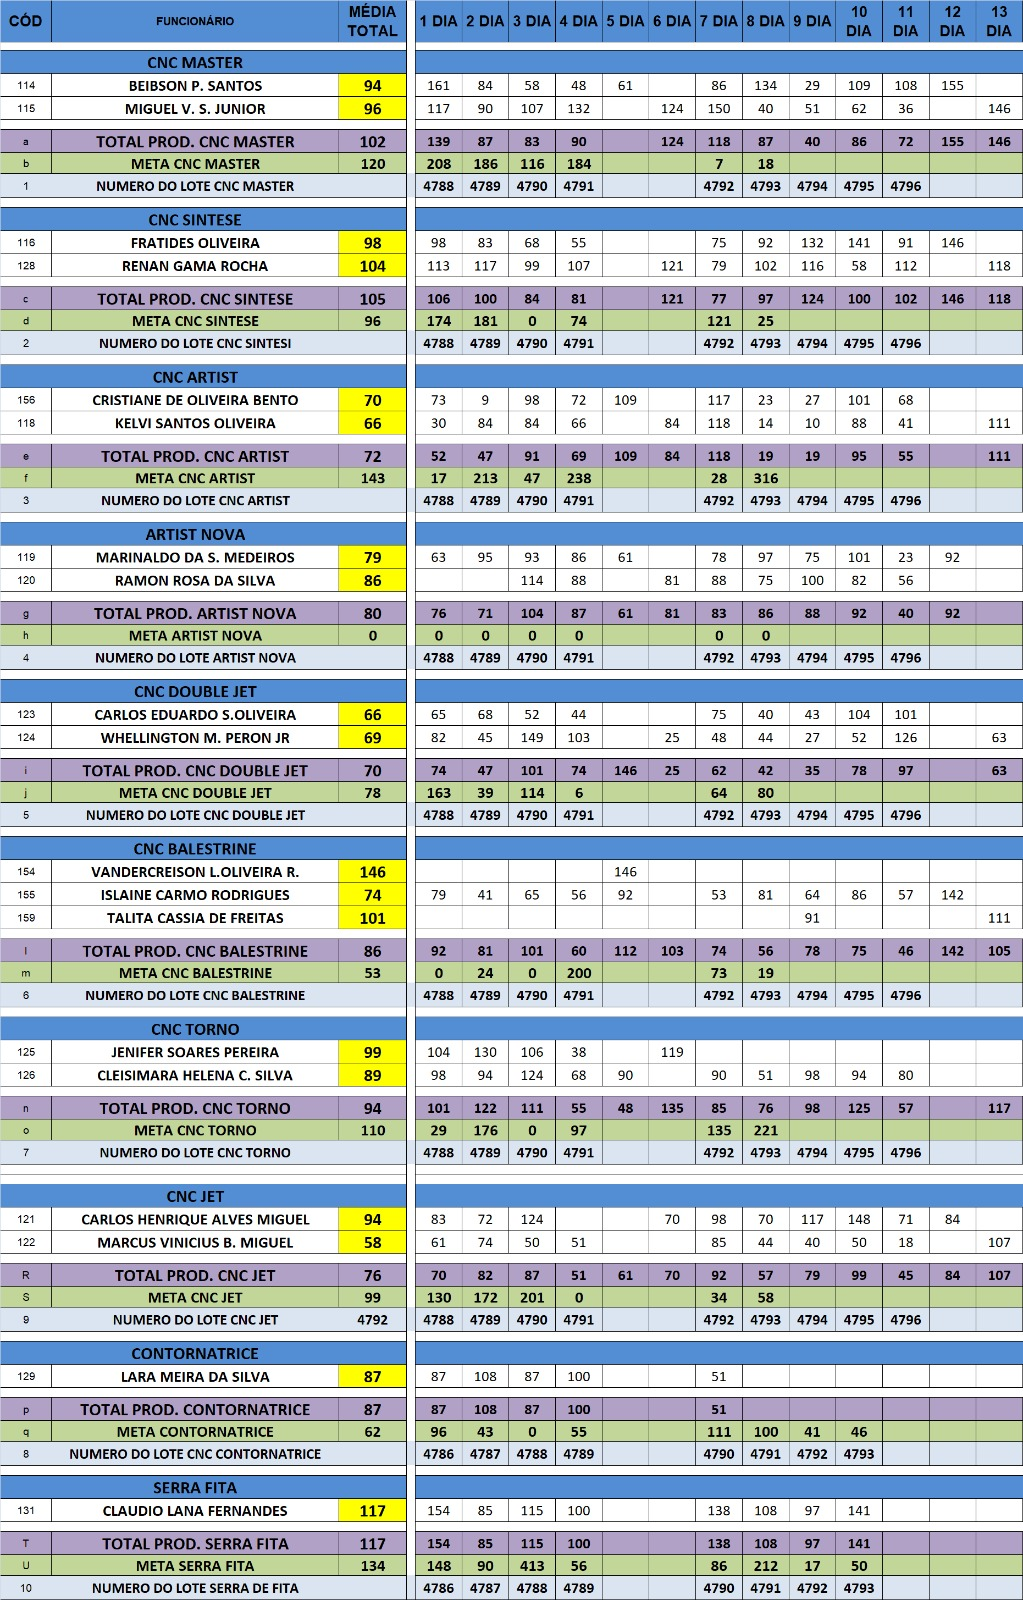
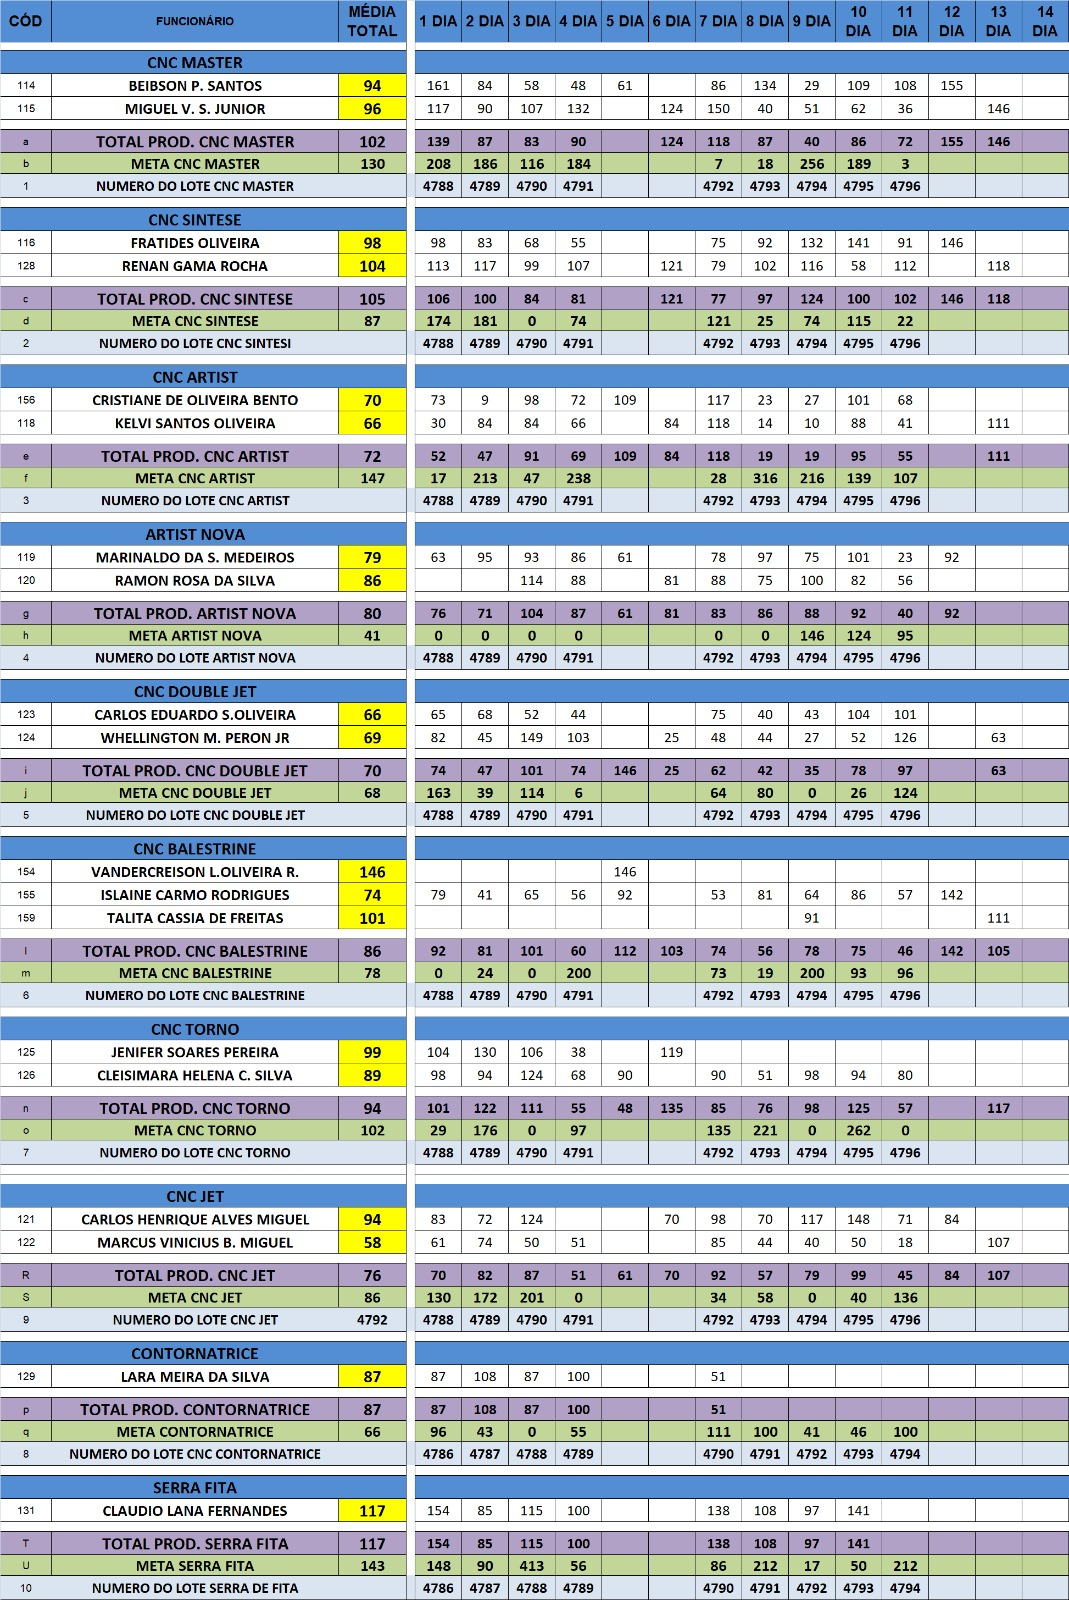
,

diff --git a/back__incial.js b/back__incial.js
@@ -1140,7 +1140,7 @@ const unidades = {
             { data: "08/04/2025", captura: ["capturas/Unidade 2/Usinagem/2025/Abril/Mont. Us/08.png", "capturas/Unidade 2/Usinagem/2025/Abril/Rolinho/08.png", "capturas/Unidade 2/Usinagem/2025/Abril/Roquite/08.png", "capturas/Unidade 2/Usinagem/2025/Abril/MM/08.png", "capturas/Unidade 2/Usinagem/2025/Abril/Usinagem/08.png"] },
             { data: "09/04/2025", captura: ["capturas/Unidade 2/Usinagem/2025/Abril/Mont. Us/09.png", "capturas/Unidade 2/Usinagem/2025/Abril/Rolinho/09.png", "capturas/Unidade 2/Usinagem/2025/Abril/Roquite/09.png", "capturas/Unidade 2/Usinagem/2025/Abril/MM/09.png", "capturas/Unidade 2/Usinagem/2025/Abril/Usinagem/09.png"] },
             { data: "10/04/2025", captura: ["capturas/Unidade 2/Usinagem/2025/Abril/Mont. Us/10.png", "capturas/Unidade 2/Usinagem/2025/Abril/Rolinho/10.png", "capturas/Unidade 2/Usinagem/2025/Abril/Roquite/10.png", "capturas/Unidade 2/Usinagem/2025/Abril/MM/10.png", "capturas/Unidade 2/Usinagem/2025/Abril/Usinagem/10.png"] },
-
+            { data: "11/04/2025", captura: ["capturas/Unidade 2/Usinagem/2025/Abril/Mont. Us/11.png", "capturas/Unidade 2/Usinagem/2025/Abril/Rolinho/11.png", "capturas/Unidade 2/Usinagem/2025/Abril/Roquite/11.png", "capturas/Unidade 2/Usinagem/2025/Abril/MM/11.png", "capturas/Unidade 2/Usinagem/2025/Abril/Usinagem/11.png"] },
 
 
 
